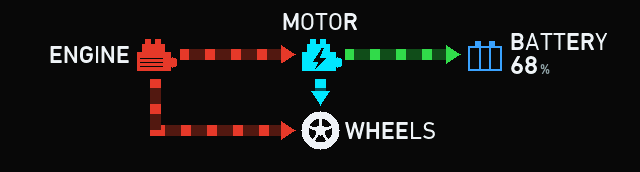
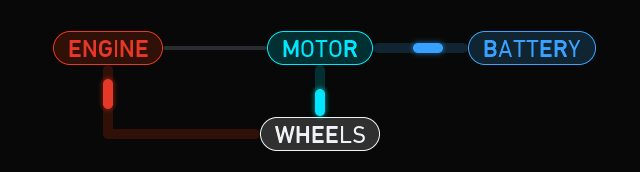
Bring the README up to date with the four screens
The README still described three screens, showed the efficiency screen's old
four-tile layout, and said nothing about the G-meter. Everything it claimed
about the two redesigned screens was also wrong -- the efficiency section
listed regen % and max speed, which that screen no longer shows.

02_energy_flow.png and 03_efficiency.png are re-rendered from the current UI,
04_gmeter.png is new, all at the panel's native 640x172. The efficiency frame
comes off a longer simulated drive (2.0 km, 72% electric, 70 km/h average)
because the short scenarios only cover a hundred metres, which reads as a bug
rather than as a short trip. 01_cockpit.png is unchanged -- that screen has
not moved since it was taken.

Also notes what the G-meter cannot yet claim: the QMI8658 path is transcribed
from the datasheet and has not been run against real hardware.

board_pins.h said the sensor I2C bus was "not used by this project (no
RTC/IMU reads)", which stopped being true when the G-meter landed. The IMU's
address moves there too, so imu.cpp and the board map cannot drift apart.

Claude-Session: https://claude.ai/code/session_015zRMcQN5hr2qzkghSL8ec6

Changed region(s): [[0.0625, 0.0581, 0.9688, 0.9012]]

diff --git a/firmware/include/board_pins.h b/firmware/include/board_pins.h
@@ -38,12 +38,14 @@ constexpr int LCD_PANEL_NATIVE_HEIGHT = 640; // physical panel height (portrait)
 constexpr int LCD_ROTATION = 1;              // rotate to landscape 640x172 for the UI
 
 // --- Shared sensor I2C bus (PCF85063 RTC + QMI8658 IMU) ---
-// Not used by this project (no RTC/IMU reads) -- kept documented in case a
-// future revision needs it. This is a *different* I2C bus from the
-// capacitive touch controller below.
+// The IMU half is live: src/imu.cpp drives the QMI8658's accelerometer over
+// Wire1 for the G-meter screen. The RTC is still unread. This is a
+// *different* I2C bus from the capacitive touch controller below, which
+// touch_nav.cpp owns via Wire.
 constexpr int PIN_SENSOR_I2C_SDA = 47;
 constexpr int PIN_SENSOR_I2C_SCL = 48;
 constexpr uint8_t I2C_ADDR_RTC_PCF85063 = 0x51;
+constexpr uint8_t I2C_ADDR_IMU_QMI8658 = 0x6B;
 
 // --- Capacitive touch (AXS15231B, same die as the display panel) ---
 // Read directly over I2C via touch_nav.cpp (plain Arduino Wire, not the

diff --git a/firmware/src/imu.cpp b/firmware/src/imu.cpp
@@ -27,7 +27,9 @@ namespace Imu {
 
 namespace {
 
-constexpr uint8_t kAddr = 0x6B; // EXAMPLE_IMU_ADDR in the vendored user_config.h
+// Address lives in board_pins.h with the rest of the board's map, so there is
+// one place to look rather than two that can drift.
+constexpr uint8_t kAddr = I2C_ADDR_IMU_QMI8658;
 
 // --- QMI8658A register map (datasheet section 8) ---
 constexpr uint8_t kRegWhoAmI = 0x00;

diff --git a/README.md b/README.md
@@ -32,7 +32,7 @@ The repository is divided into three main folders:
 
 ## Screens
 
-The cluster cycles through three screens either with the board's physical
+The cluster cycles through four screens either with the board's physical
 **BOOT button**, or by **tapping anywhere on the panel** (presence-only
 touch, no coordinates/gestures — an earlier swipe-based `lv_tileview`
 navigation was dropped for being laggy on real hardware, but a discrete tap
@@ -63,15 +63,50 @@ of the bar, green under charge).
 
 ### ⚡ Energy Flow
 
-Animated ENGINE / MOTOR / BATTERY / WHEELS diagram, Prius-style flow arrows.
+ENGINE / MOTOR / BATTERY / WHEELS and the four paths between them. Each link
+is a dim shaft carrying a bright segment that travels the way the energy
+does — red for the engine's mechanical drive, green for anything being
+recovered, blue for the pack when it is the one giving. A link with nothing
+flowing thins out and greys, and a node whose every link is idle dims with
+them, so the picture below is the engine and the pack both feeding the
+wheels.
 
 ![Energy Flow](https://github.com/fellettigiacomo/toyota-yaris-3rd-gen-virtual-cockpit/blob/main/firmware/sim/screenshot/screenshots/02_energy_flow.png?raw=true)
 
 ### 📊 Efficiency
 
-Session stats: EV vs. engine share, distance, regen %, avg/max speed.
+The session's EV-vs-engine split, drawn as a full-bleed divide of the whole
+screen: the electric share fills from the left edge, the engine share holds
+the rest, and both percentages hang off the seam between them. Distance and
+average speed keep the bottom corners.
 
 ![Efficiency](https://github.com/fellettigiacomo/toyota-yaris-3rd-gen-virtual-cockpit/blob/main/firmware/sim/screenshot/screenshots/03_efficiency.png?raw=true)
+
+### 📈 G-Meter
+
+Longitudinal and lateral acceleration from the board's own QMI8658 IMU, on a
+g-ball where the dot is the acceleration vector — up under power, down under
+braking, sideways the way the car is turning — plus the session's four
+directional peaks.
+
+The board is mounted in whatever orientation fits the dash, so the chip's
+axes mean nothing on their own. Rather than ask for a setup step, the
+firmware works out both references it needs from data it already has: CAN
+says when the car is stopped, which is when the accelerometer is reading
+nothing but gravity and therefore says which way is up; and CAN's own
+`d(speed)/dt` says when the car is accelerating in a straight line and how
+hard, which is when the horizontal part of that same reading points along
+the car. Braking teaches the axis just as well as accelerating, since the
+sign comes from CAN too. Until it has converged the screen says so rather
+than drawing a dot it cannot place honestly.
+
+![G-Meter](https://github.com/fellettigiacomo/toyota-yaris-3rd-gen-virtual-cockpit/blob/main/firmware/sim/screenshot/screenshots/04_gmeter.png?raw=true)
+
+> **The IMU path has not been verified on a real board yet.** The QMI8658
+> register map, ODR/full-scale encodings and filter bits are transcribed from
+> the datasheet rather than read back off working hardware. The failure mode
+> is visible rather than silent: if nothing answers on the sensor bus the
+> screen reads `NO SENSOR`.
 
 ## Hardware
 
@@ -81,6 +116,9 @@ Session stats: EV vs. engine share, distance, regen %, avg/max speed.
 - **CAN transceiver**: SN65HVD230, wired to OBD-II pins 6 (CAN-H) / 14
   (CAN-L). Full wiring table and GPIO rationale in
   [`re/obd-capture-fw/README.md`](re/obd-capture-fw/README.md).
+- **IMU**: the board's onboard QMI8658, on its sensor I2C bus (GPIO47/48,
+  address 0x6B) — accelerometer only, for the G-meter screen. Nothing to
+  wire: it is already on the board.
 
 ## Repository layout
 
@@ -90,8 +128,10 @@ Session stats: EV vs. engine share, distance, regen %, avg/max speed.
 ├── firmware/                # Dashboard firmware (LVGL) + desktop simulator
 │   ├── include/             #   board pins, VehicleState struct, LVGL config
 │   ├── src/
-│   │   ├── ui/               #   screens: cockpit_ui, energy_flow_ui, efficiency_ui
-│   │   └── can_decoder.cpp   #   DBC-driven CAN -> VehicleState decode
+│   │   ├── ui/               #   screens: cockpit_ui, energy_flow_ui, efficiency_ui, gmeter_ui
+│   │   ├── can_decoder.cpp   #   DBC-driven CAN -> VehicleState decode
+│   │   ├── imu.cpp           #   QMI8658 accelerometer (G-meter screen)
+│   │   └── g_meter.cpp       #   IMU + CAN -> forward/lateral g, axes self-calibrating
 │   └── sim/                 #   SDL2 desktop simulator, no board required
 └── re/                      # Reverse-engineering workspace
     ├── obd-capture-fw/      #   ESP32-S3 passive CAN sniffer + SD logger
